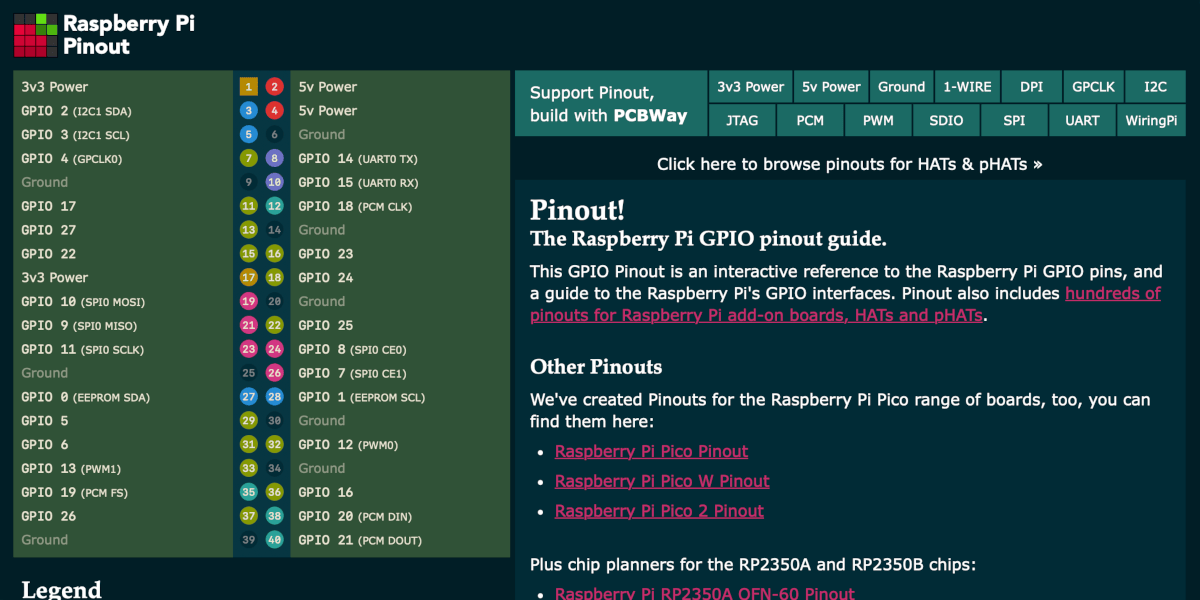
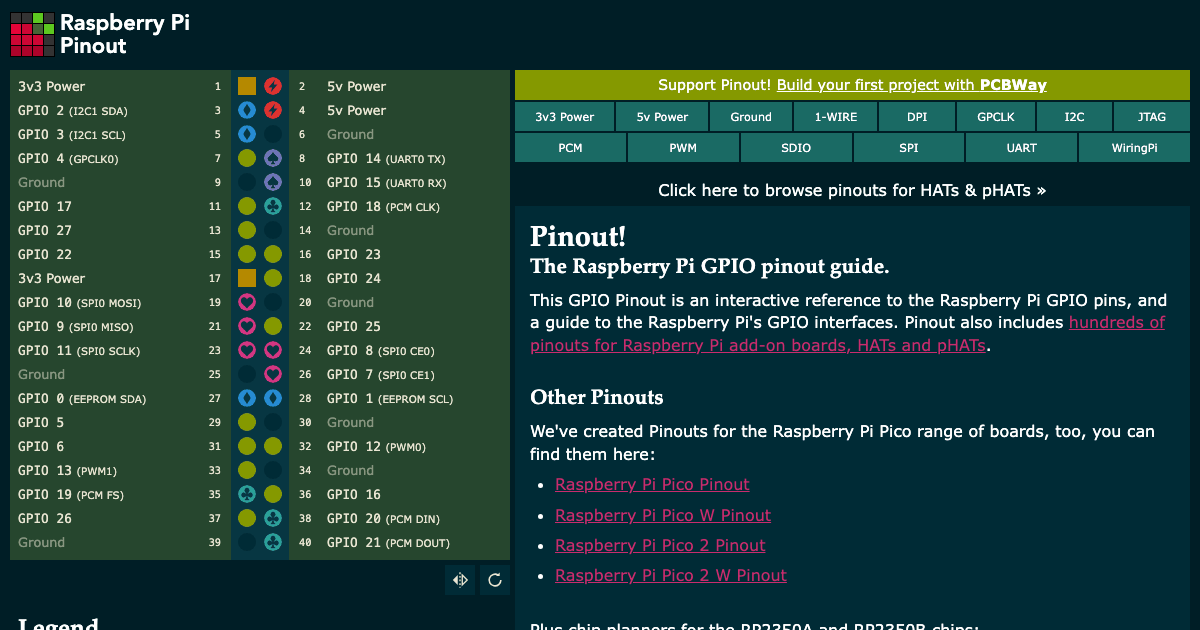
og: Reshoot the social image at 1200x630, script the regen

diff --git a/tools/og-image.py b/tools/og-image.py
@@ -1,0 +1,107 @@
+#!/usr/bin/env python3
+
+import functools
+import os
+import subprocess
+import shutil
+import tempfile
+import time
+from http.server import SimpleHTTPRequestHandler, ThreadingHTTPServer
+from threading import Thread
+
+try:
+    from PIL import Image
+except ImportError:
+    exit("This script requires the Pillow module\nInstall with: pip install Pillow")
+
+WIDTH, HEIGHT = 1200, 630
+SITE = 'output/site'
+OUTPUT = 'api/index.png'
+TIMEOUT = 60
+
+CHROME = [
+    os.environ.get('CHROME'),
+    '/Applications/Google Chrome.app/Contents/MacOS/Google Chrome',
+    '/Applications/Chromium.app/Contents/MacOS/Chromium',
+    'google-chrome',
+    'chromium',
+]
+
+
+class QuietHandler(SimpleHTTPRequestHandler):
+    def log_message(self, *args):
+        pass
+
+
+def find_chrome():
+    for candidate in CHROME:
+        if candidate and (os.path.isfile(candidate) or shutil.which(candidate)):
+            return candidate
+    exit("Unable to find Chrome, set CHROME to its path")
+
+
+def serve(directory):
+    handler = functools.partial(QuietHandler, directory=directory)
+    server = ThreadingHTTPServer(('127.0.0.1', 0), handler)
+    Thread(target=server.serve_forever, daemon=True).start()
+    return server
+
+
+def screenshot(chrome, url, path, profile):
+    process = subprocess.Popen([
+        chrome,
+        '--headless',
+        '--disable-gpu',
+        '--hide-scrollbars',
+        '--force-color-profile=srgb',
+        '--no-first-run',
+        '--no-default-browser-check',
+        '--user-data-dir=' + profile,
+        '--window-size={},{}'.format(WIDTH, HEIGHT),
+        '--screenshot=' + path,
+        url,
+    ], stdout=subprocess.DEVNULL, stderr=subprocess.DEVNULL)
+
+    # Chrome writes the screenshot but will not reliably exit, so wait for the
+    # file to stop growing and stop it ourselves.
+    previous_size = 0
+    deadline = time.time() + TIMEOUT
+    while time.time() < deadline:
+        time.sleep(0.5)
+        if os.path.exists(path):
+            size = os.path.getsize(path)
+            if size > 0 and size == previous_size:
+                break
+            previous_size = size
+        elif process.poll() is not None:
+            exit("Chrome exited without taking a screenshot")
+
+    process.terminate()
+    try:
+        process.wait(timeout=5)
+    except subprocess.TimeoutExpired:
+        process.kill()
+
+    if not os.path.exists(path):
+        exit("Timed out waiting for a screenshot")
+
+
+if not os.path.isdir(SITE):
+    exit("No {} to shoot, run: make site-lang LANG=en".format(SITE))
+
+chrome = find_chrome()
+server = serve(SITE)
+url = 'http://127.0.0.1:{}/index.html'.format(server.server_port)
+
+with tempfile.TemporaryDirectory() as tmp:
+    shot = os.path.join(tmp, 'shot.png')
+    screenshot(chrome, url, shot, os.path.join(tmp, 'profile'))
+
+    image = Image.open(shot).convert('RGB')
+    if image.size != (WIDTH, HEIGHT):
+        exit("Expected {}x{}, got {}x{}".format(WIDTH, HEIGHT, *image.size))
+    image.convert('P', palette=Image.ADAPTIVE, colors=256).save(OUTPUT, optimize=True)
+
+server.shutdown()
+
+print("Saved {} ({}x{}, {} bytes)".format(OUTPUT, WIDTH, HEIGHT, os.path.getsize(OUTPUT)))
